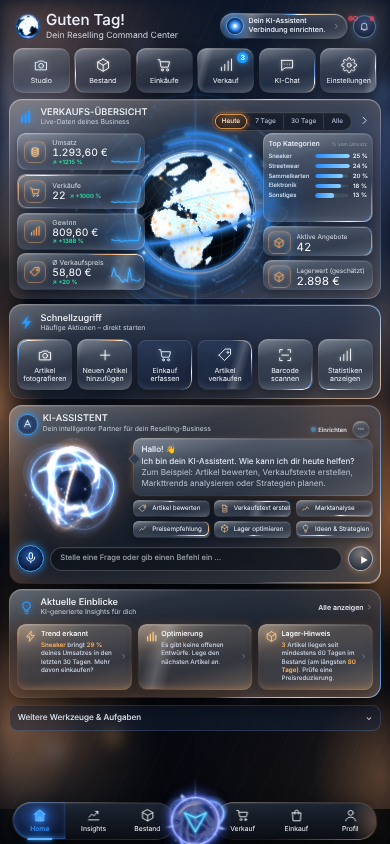
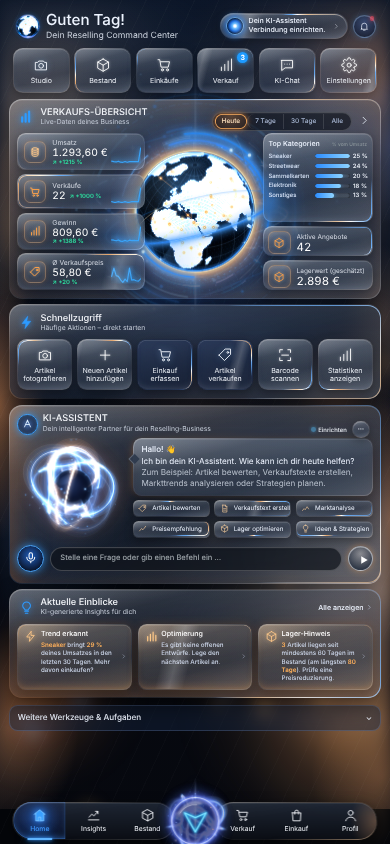
Globus: starker warm-weißer Glow wie in der Vorlage, Glocke mit nur einem Punkt
Claude-Session: https://claude.ai/code/session_0194bcZ5PbUBuV3hzmwdGD96

diff --git a/public/theme.css b/public/theme.css
@@ -785,3 +785,23 @@ body:has(#home:not(.hidden)) .v11-ai .rv-crafted-chat #homeAiSend, .cc-send { bo
     box-shadow:0 0 0 1px rgba(255,190,120,.45), 0 0 18px rgba(255,150,60,.35), 0 10px 22px rgba(0,0,0,.4), inset 0 1px 0 rgba(255,255,255,.25) !important; }
 }
 .cc-sheen { position:absolute !important; top:0 !important; bottom:0 !important; left:0 !important; z-index:2 !important; }
+
+/* Globus: starker Glow wie in der Vorlage (warm-weißer Rand, orange und blau nach außen) */
+.v15-globe-wrap .cc-earth { box-shadow:
+  0 0 2px 1px rgba(255,245,230,.95),
+  0 0 10px 3px rgba(255,220,170,.75),
+  0 0 26px 8px rgba(255,170,90,.55),
+  0 0 54px 18px rgba(255,140,60,.28),
+  0 0 90px 34px rgba(60,130,255,.22),
+  inset 0 0 22px 4px rgba(255,190,120,.35) !important;
+  animation:cc-globeglow 4.5s ease-in-out infinite; }
+@keyframes cc-globeglow { 0%,100% { filter:brightness(1); } 50% { filter:brightness(1.12) saturate(1.1); } }
+.v15-globe-wrap::before { content:''; position:absolute; left:43%; top:50%; width:96%; height:96%; transform:translate(-50%,-50%); border-radius:50%; pointer-events:none; z-index:0;
+  background:radial-gradient(circle, rgba(255,170,90,.32) 30%, rgba(255,140,60,.16) 42%, rgba(60,130,255,.12) 56%, transparent 70%);
+  animation:cc-globehalo 4.5s ease-in-out infinite; }
+@keyframes cc-globehalo { 0%,100% { opacity:.8; transform:translate(-50%,-50%) scale(.97); } 50% { opacity:1; transform:translate(-50%,-50%) scale(1.03); } }
+@media (prefers-reduced-motion: reduce) { .v15-globe-wrap .cc-earth, .v15-globe-wrap::before { animation:none; } }
+/* Glocke: nur ein roter Punkt */
+.v11-bell > .cc-sheen, .v11-bell > .cc-glint { display:none !important; }
+.v15-globe-wrap::before { z-index:1 !important; mix-blend-mode:screen; width:104% !important; height:104% !important;
+  background:radial-gradient(circle, transparent 30%, rgba(255,200,140,.45) 32.5%, rgba(255,160,80,.30) 36%, rgba(255,130,50,.14) 43%, rgba(70,140,255,.12) 52%, transparent 64%) !important; }

diff --git a/public/sw.js b/public/sw.js
@@ -1,4 +1,4 @@
-const CACHE='rv-studio-v19-blueglass-9';
+const CACHE='rv-studio-v19-blueglass-10';
 const FILES=['/','/index.html','/app.css','/dashboard.css','/fx.css','/ref.css','/theme.css','/app.js','/dashboard.js','/fx.js',
   '/vendor/jszip.min.js','/fonts/command-sans-regular.otf','/fonts/command-sans-bold.otf',
   '/rv-logo.jpg','/rv-ai-mascot.png','/rv-robot-premium.png','/rv-white.png',
